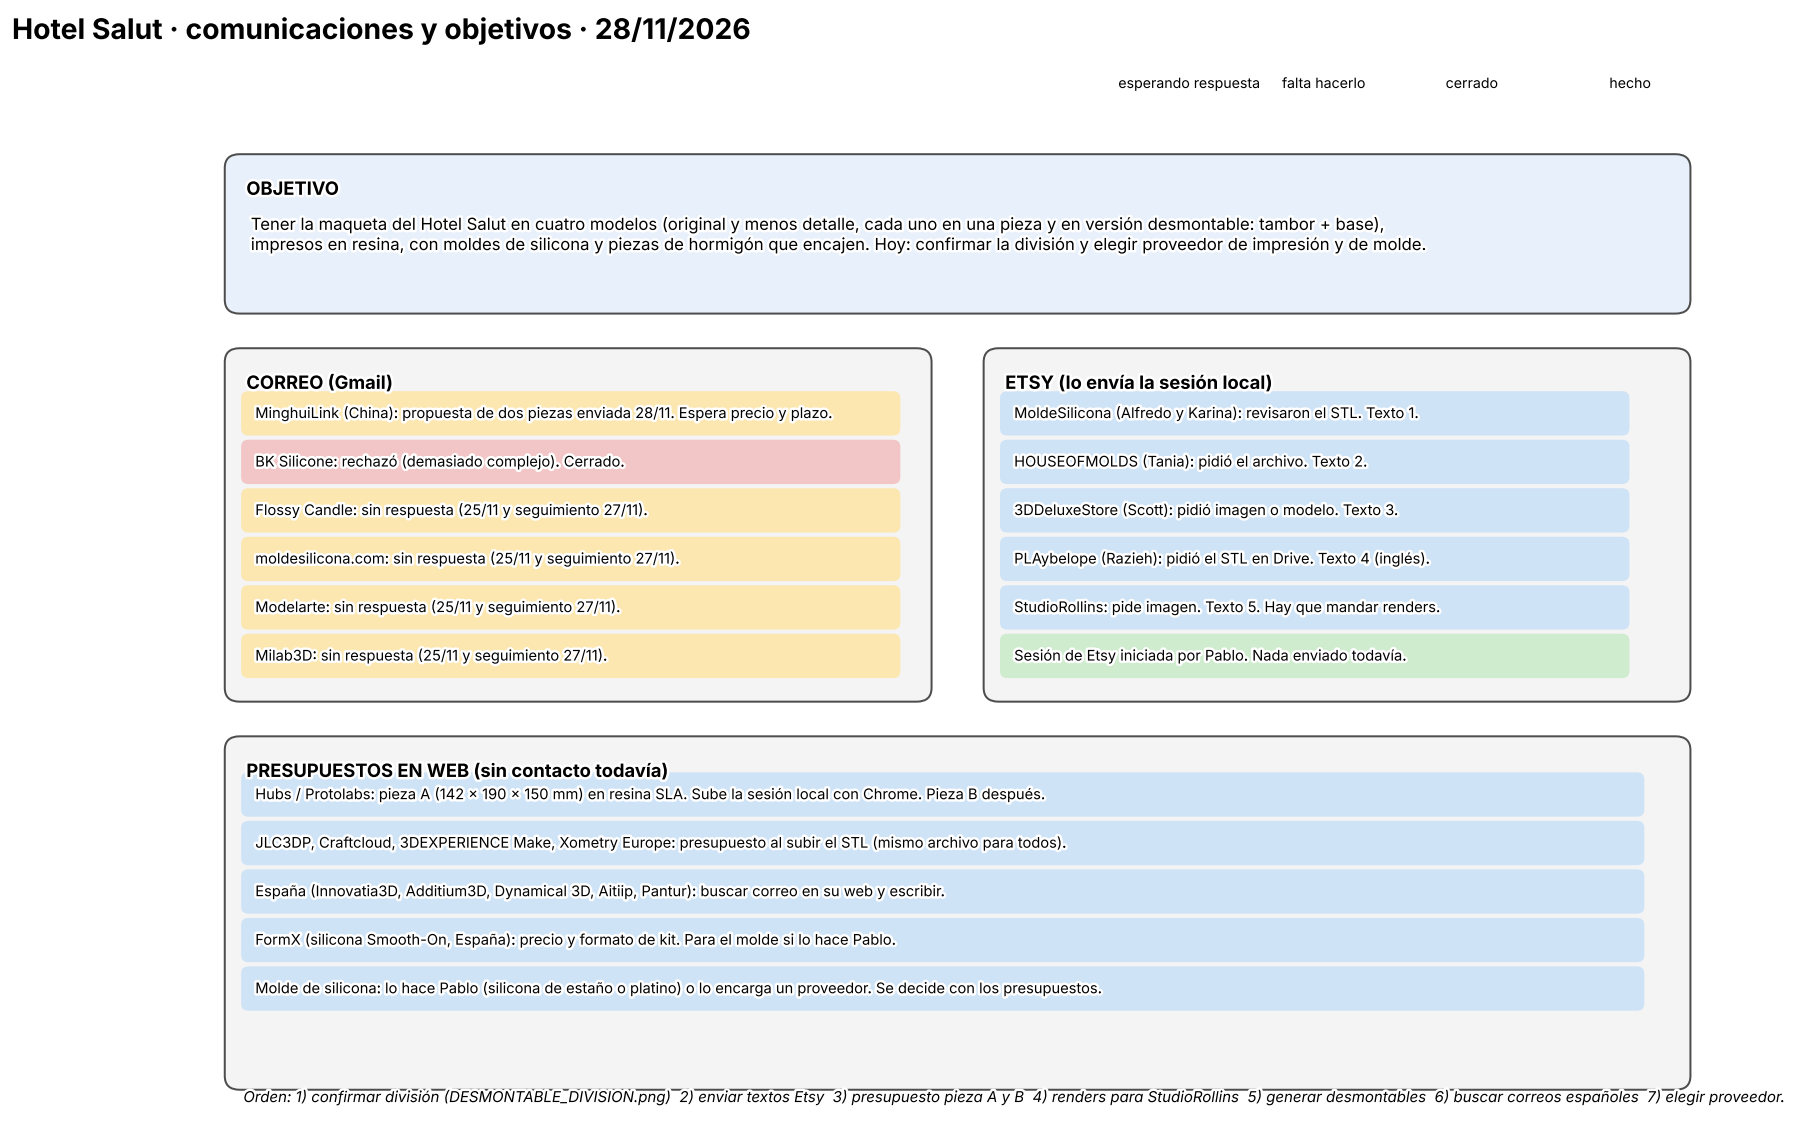
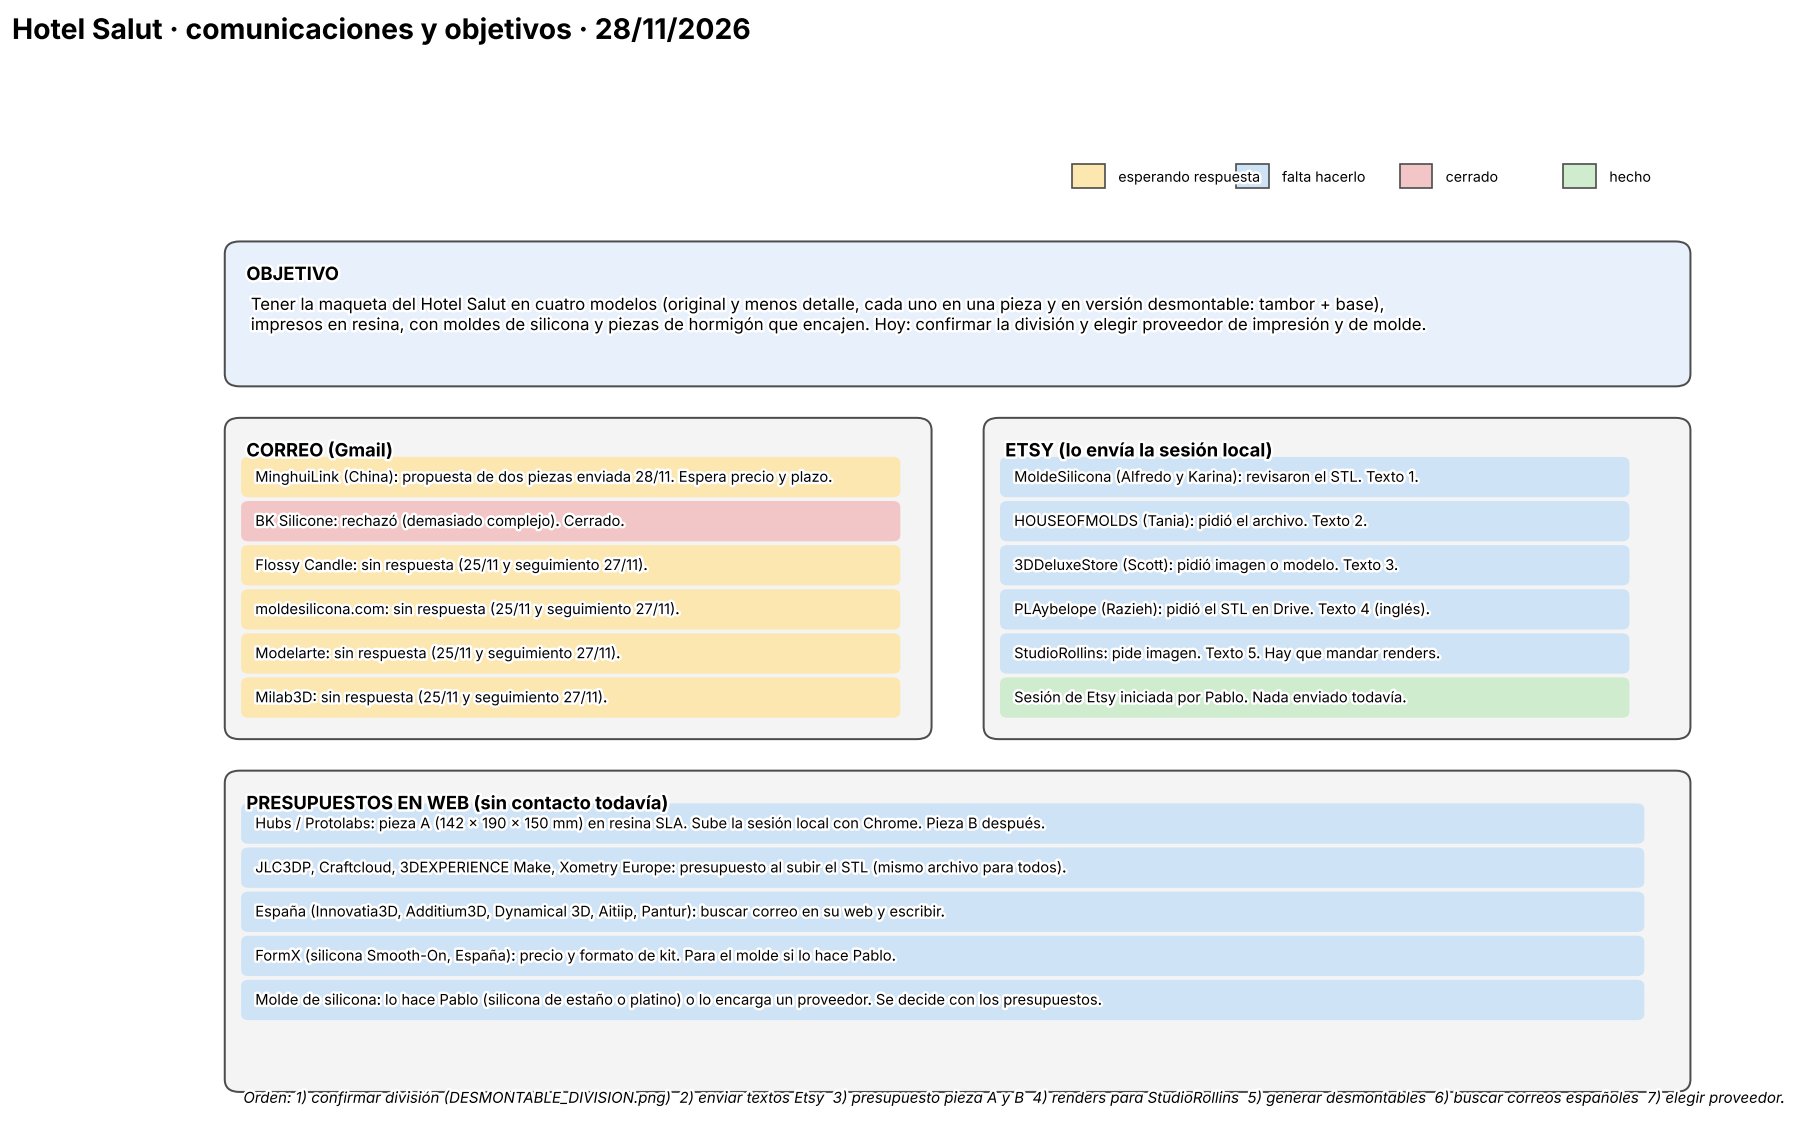
Gráfico de comunicaciones: leyenda visible
Claude-Session: https://claude.ai/code/session_01B2zLCmeLQSUAAPcuuWZ3LT

diff --git a/maqueta_salut/plan_comunicaciones.py b/maqueta_salut/plan_comunicaciones.py
@@ -6,7 +6,7 @@ matplotlib.use("Agg")
 import matplotlib.pyplot as plt
 from matplotlib.patches import FancyBboxPatch
 
-fig, ax = plt.subplots(figsize=(16, 10.5)); ax.set_xlim(0, 100); ax.set_ylim(0, 70); ax.axis("off")
+fig, ax = plt.subplots(figsize=(16, 10.5)); ax.set_xlim(0, 100); ax.set_ylim(0, 77); ax.axis("off")
 fig.suptitle("Hotel Salut · comunicaciones y objetivos · 28/11/2026", fontsize=17, weight="bold", x=0.02, ha="left", y=0.985)
 
 COL = {"ESPERA": "#fde7b0", "PENDIENTE": "#cfe3f7", "CERRADO": "#f2c6c6", "HECHO": "#cfeccf"}
